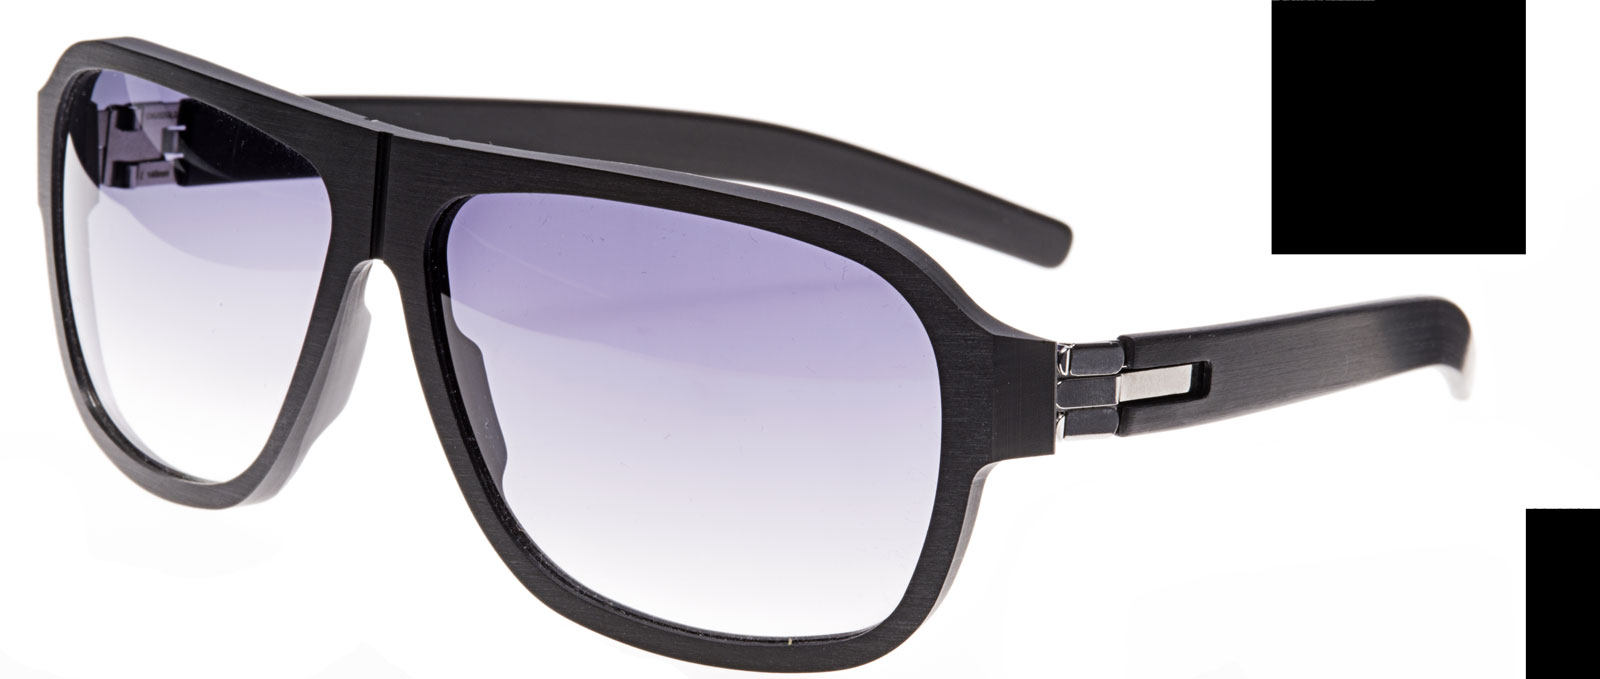
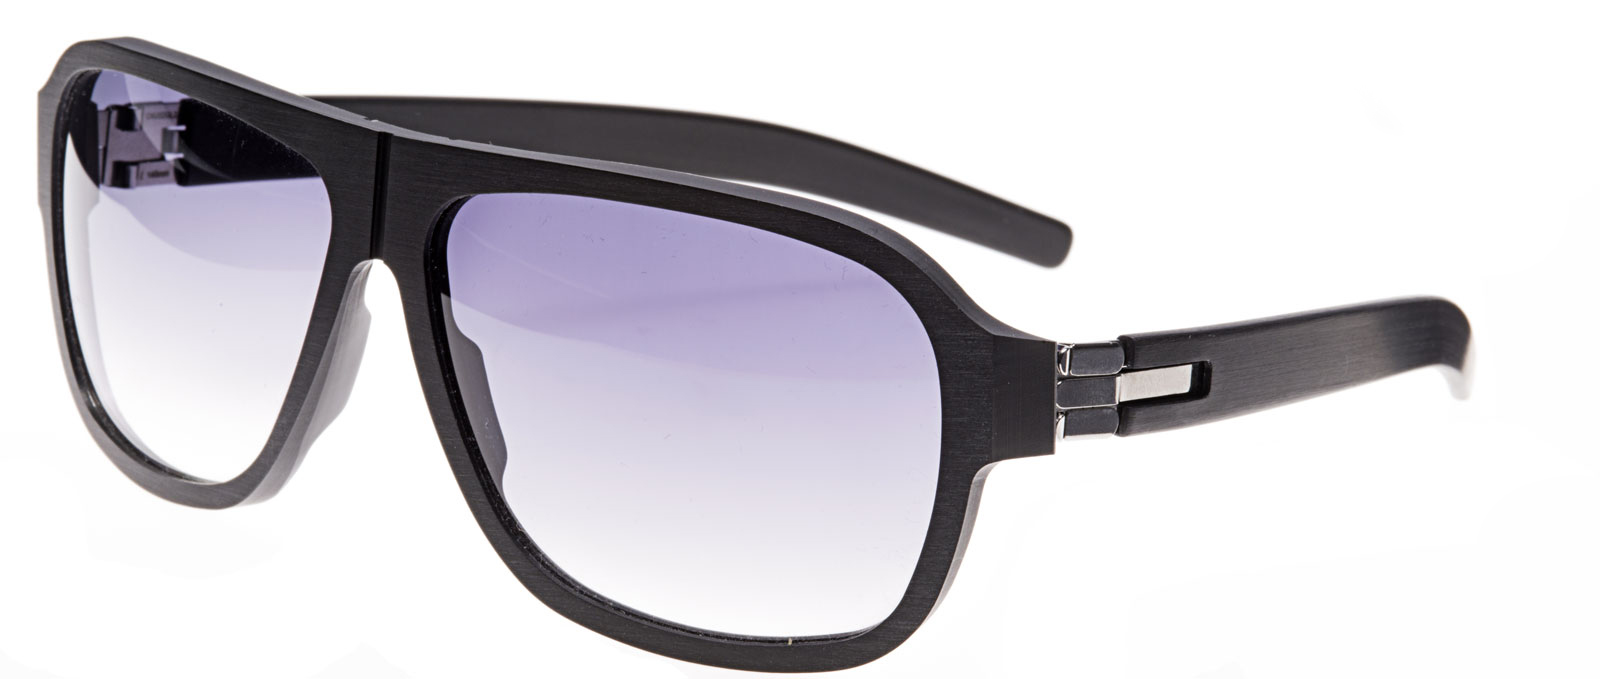
Brille 5 Bild korrigiert

Changed region(s): [[0.7812, 0.0, 0.9688, 0.4021], [0.9375, 0.7423, 1.0, 1.0]]

diff --git a/collection.html b/collection.html
@@ -103,6 +103,12 @@ $( document ).ready(function() {
 			<img src="pictures/collbrille4.jpg" alt="" width="400" height="165" >
            <h6>TEST</h6>
            <p>DIES IST EIN TEST IN VERSALIEN UND HIER</p>
+        </li>
+        <li>        	
+			<img src="pictures/collbrille5.jpg" alt="" width="400" height="165" >
+           <h6>TEST</h6>
+           <p>DIES IST EIN TEST IN VERSALIEN UND HIER</p>
+        </li>
     </ul>
 </div>
 
